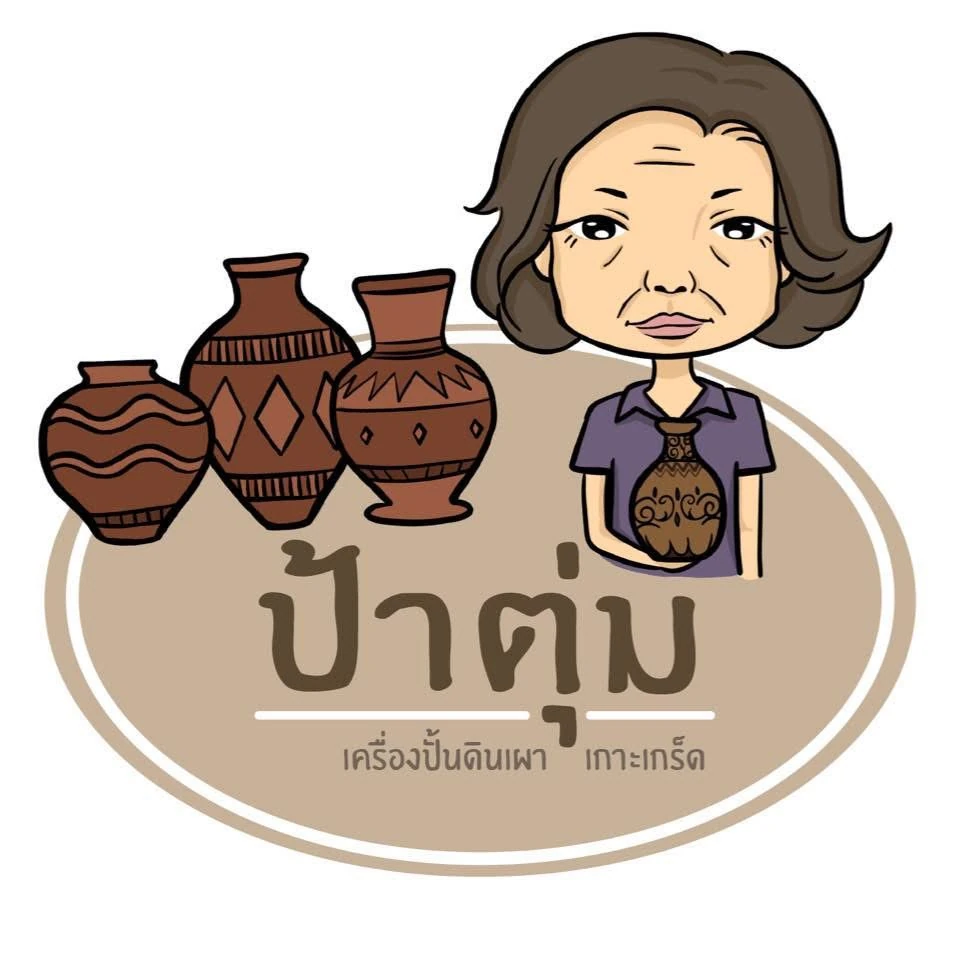
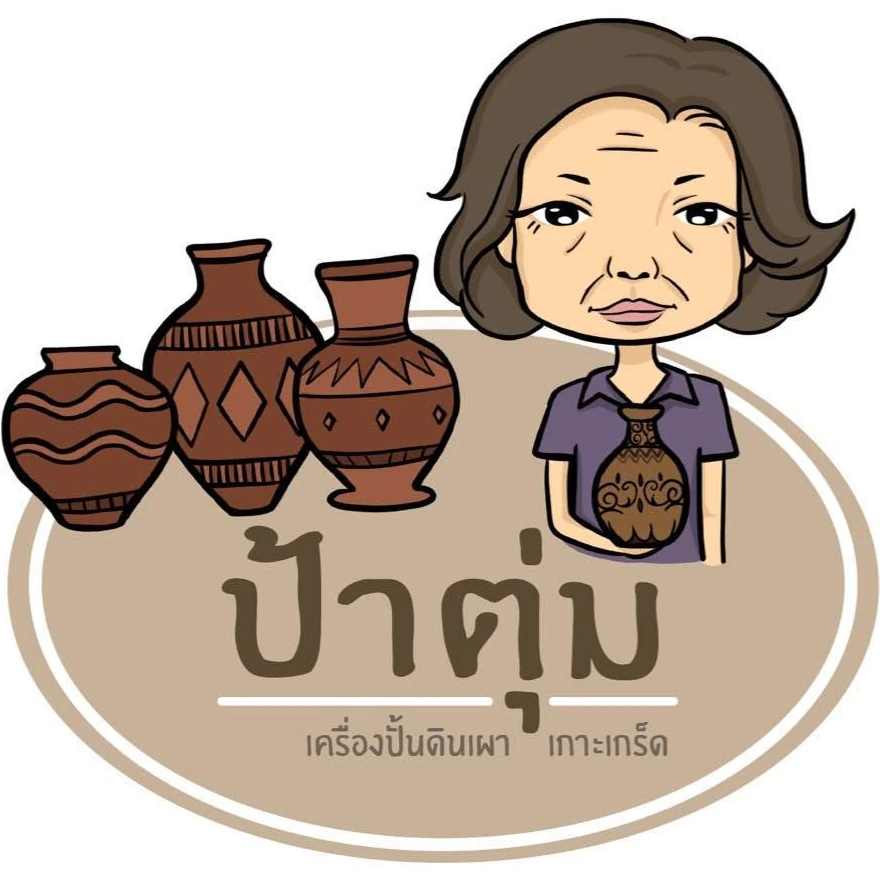
เปลี่ยนโลโก้ป้าตุ่มเป็นตราเล็กข้างชื่อร้าน แทนการวางในกรอบรูป
โลโก้เป็นภาพจัตุรัส พอวางในกรอบรูปแนวนอนคู่กับรูปถ่าย สัดส่วนดูไม่เข้ากัน
จะครอปให้เต็มกรอบก็เสียชื่อร้านที่อยู่ใต้ภาพ

- ย้ายโลโก้ไปเป็นตราเล็กวางคู่หัวข้อร้าน 3.5rem บนมือถือ 4.5rem จอ 700px ขึ้นไป
- ตัดขอบขาวรอบโลโก้ออกจากไฟล์ (960x960 เหลือ 880x880) ตัวโลโก้จะได้เต็มกรอบตรา
- รูปโคมไฟดินเผาวางเต็มความกว้างแทน เพราะเหลือรูปถ่ายของโรงงานรูปเดียว
  เพิ่ม .shots--single ไว้สำหรับกรณีร้านที่มีรูปเดียว
- ถอด .shot--logo ที่ไม่ได้ใช้แล้วออก

ตรวจแล้ว 16 หน้า x 2 ขนาดจอ ไม่มีรูปเสีย ไม่ล้นจอ JSON-LD parse ได้
คอนทราสต์โหมดมืดต่ำสุด 6.38:1 ผ่าน WCAG AA

Claude-Session: https://claude.ai/code/session_012pb4n9uG9dff3XN8zv2NYR

diff --git a/plans/workshop.html b/plans/workshop.html
@@ -278,7 +278,12 @@
       <p>ที่ให้ปั้นตอนสายแก่ เพราะโรงงานเปิดเก้าโมงและช่วงที่มีสาธิตให้ดูคือสายถึงบ่าย ถ้ามาบ่ายแก่แล้วค่อยเข้า จะเหลือเวลาน้อยจนรีบ</p>
 
       <section class="shop" id="pa-tum">
-        <h2>โรงงานเครื่องปั้นดินเผาป้าตุ่ม</h2>
+        <div class="shop__head">
+          <!-- โลโก้ของร้านเอง ถ้าจะใช้บนเว็บที่เผยแพร่จริงต้องขออนุญาตร้านก่อน -->
+          <img class="shop__logo" src="../assets/img/workshop-3.webp"
+               alt="โลโก้ร้านป้าตุ่ม เป็นภาพวาดผู้หญิงสูงวัยอุ้มโอ่งดินเผา ข้าง ๆ มีโอ่งลายสามใบ" width="880" height="880" loading="lazy" decoding="async">
+          <h2>โรงงานเครื่องปั้นดินเผาป้าตุ่ม</h2>
+        </div>
 
         <p>เป็นแหล่งเรียนรู้ภูมิปัญญาการทำเครื่องปั้นดินเผาแบบดั้งเดิมของชุมชนชาวมอญเกาะเกร็ด ยังมีการสาธิตให้ดูตั้งแต่ขึ้นรูปเครื่องปั้น ไปจนถึงแกะสลักลวดลายด้วยมือ และเปิดให้นักท่องเที่ยวทดลองปั้นดินเผาด้วยตัวเองได้</p>
 
@@ -305,12 +310,10 @@
           </div>
         </dl>
 
-        <div class="shots">
-          <!-- รูปม็อคอัพ รูปที่สองเป็นโลโก้ของร้านเอง ถ้าจะใช้บนเว็บที่เผยแพร่จริงต้องขออนุญาตร้านก่อน -->
+        <!-- รูปม็อคอัพ มีรูปถ่ายของโรงงานอยู่รูปเดียว จึงวางเต็มความกว้างแทนการวางคู่ -->
+        <div class="shots shots--single">
           <img class="shot shot--wide" src="../assets/img/workshop-2.webp"
                alt="แผงวางโคมไฟดินเผาฉลุลายทรงเจดีย์เรียงเต็มโต๊ะ ส่วนใหญ่เป็นสีส้มอิฐ มีสีดำแทรกอยู่สามสี่ใบ ปูโต๊ะด้วยผ้าพลาสติกสีฟ้า" width="822" height="478" loading="lazy" decoding="async">
-          <img class="shot shot--wide shot--logo" src="../assets/img/workshop-3.webp"
-               alt="โลโก้ร้านป้าตุ่ม เป็นภาพวาดผู้หญิงสูงวัยอุ้มโอ่งดินเผา ข้าง ๆ มีโอ่งลายสามใบ ใต้ภาพเขียนว่า ป้าตุ่ม เครื่องปั้นดินเผา เกาะเกร็ด" width="960" height="960" loading="lazy" decoding="async">
         </div>
       </section>
 

diff --git a/assets/css/main.css b/assets/css/main.css
@@ -403,14 +403,22 @@ a.card:hover { transform: translateY(-4px); box-shadow: var(--shadow-md); }
    ใช้ !important เพราะสัดส่วนของ .shot ถูกเขียนทับตามขนาดจอในท้ายไฟล์
    สองคลาสนี้ต้องไม่ถูกบังคับสัดส่วนไม่ว่าจอไหน */
 .shot--full { aspect-ratio: auto !important; object-fit: contain; }
-/* โลโก้ร้านไม่ใช่ภาพถ่าย ครอปแล้วชื่อร้านหาย จึงย่อให้เห็นครบทั้งภาพ
-   แต่ยังคงสัดส่วนของ .shot ไว้ เพื่อให้สองช่องในแถวเดียวกันสูงเท่ากัน */
-.shot--logo { object-fit: contain; }
 /* รูปแนวตั้งในบทความ จำกัดความกว้างไม่ให้สูงจนกินทั้งหน้าจอ */
 .shot--tall { aspect-ratio: auto !important; object-fit: contain; max-width: 27rem; margin-inline: auto; }
 
 /* หนึ่งร้านหนึ่ง section — .prose > * + * เว้นระยะให้เฉพาะลูกชั้นแรก
    ข้างใน section จึงต้องกำหนดเอง ไม่งั้นหัวข้อกับคำอธิบายติดกัน */
+/* โลโก้ร้านเป็นภาพจัตุรัส ใส่ในกรอบรูปแนวนอนแล้วสัดส่วนเพี้ยน
+   จะครอปก็เสียชื่อร้านที่อยู่ใต้ภาพ จึงย่อเป็นตราเล็กวางคู่ชื่อร้านแทน */
+.shop__head { display: flex; align-items: center; gap: var(--sp-3); }
+.shop__head h2 { margin: 0; }
+.shop__logo {
+  flex: none;
+  width: 3.5rem;
+  height: 3.5rem;
+  object-fit: contain;
+  border-radius: var(--r-sm);
+}
 .shop > * + * { margin-top: var(--sp-4); }
 .shop .summary__list { margin-top: var(--sp-5); }
 
@@ -686,6 +694,10 @@ a.plan:hover { transform: translateY(-4px); box-shadow: var(--shadow-md); }
    ============================================================ */
 @media (min-width: 700px) {
   .shots { grid-template-columns: 1fr 1fr; }
+  /* ร้านที่มีรูปเดียว ไม่ต้องแบ่งครึ่ง ปล่อยเต็มความกว้าง */
+  .shots--single { grid-template-columns: 1fr; }
+  /* จอกว้างขึ้น ชื่อร้านไม่ต้องแย่งที่กับตราแล้ว ขยายตราให้เห็นลายชัดขึ้น */
+  .shop__logo { width: 4.5rem; height: 4.5rem; }
   .section__title { font-size: var(--fs-3xl); }
   .hero__title { font-size: var(--fs-4xl); }
   .facts__grid { grid-template-columns: repeat(3, 1fr); gap: var(--sp-4); }
